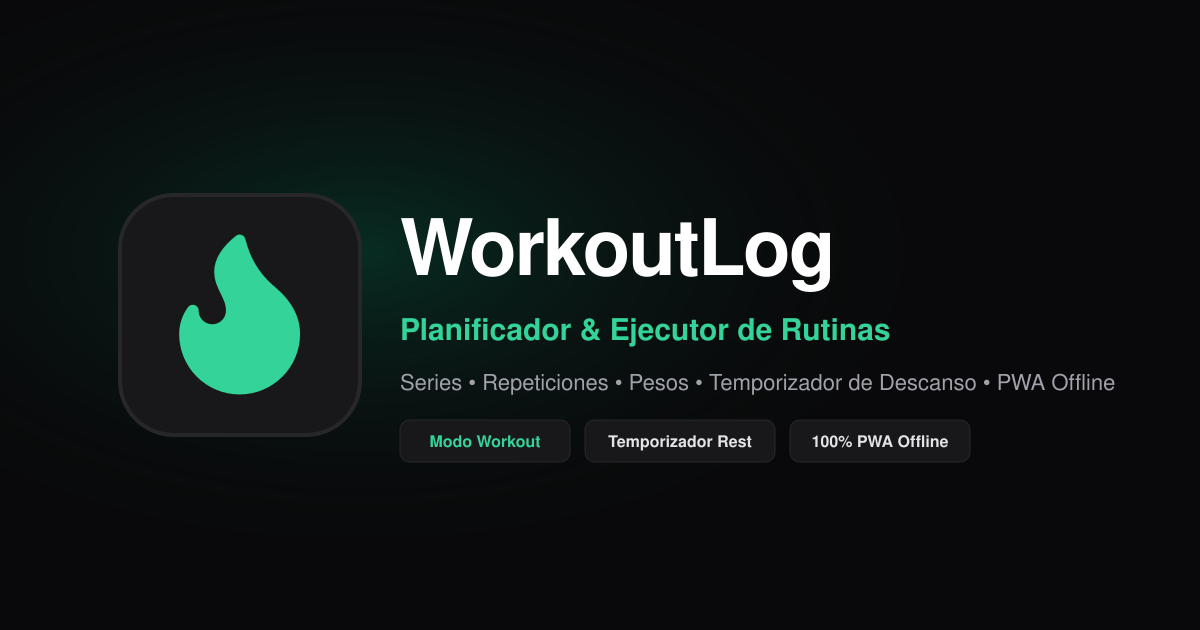
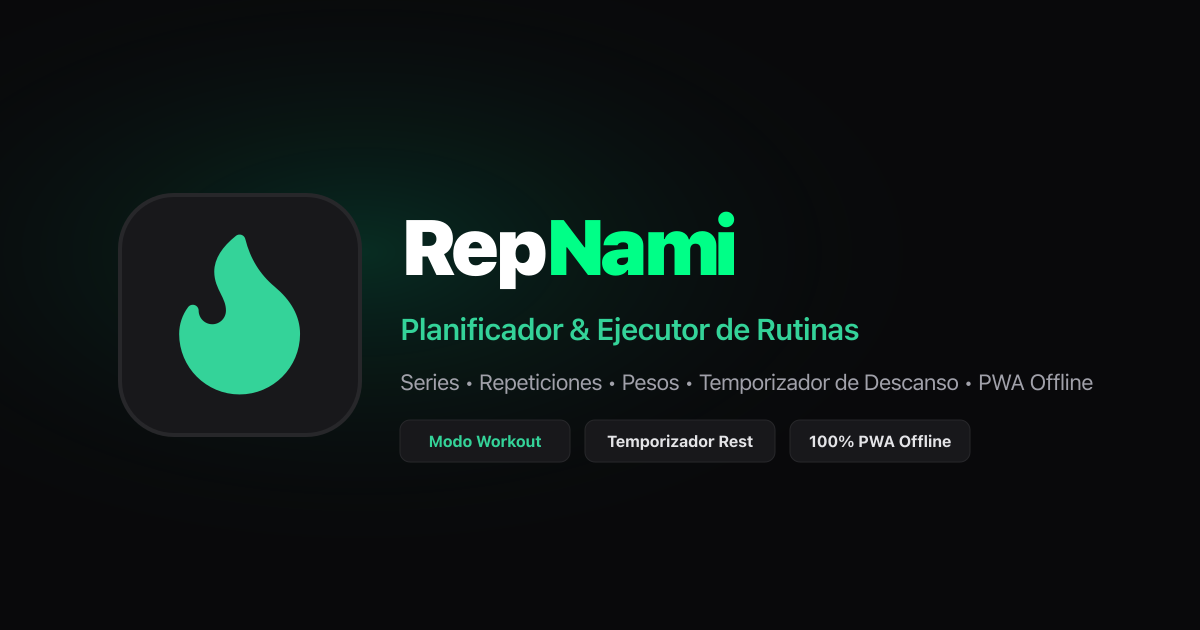
feat(ui): rename app to RepNami

diff --git a/index.html b/index.html
@@ -5,8 +5,8 @@
     <meta name="viewport" content="width=device-width, initial-scale=1.0, maximum-scale=1.0, user-scalable=no" />
     
     <!-- Primary Title & Meta Description -->
-    <title>WorkoutLog – Planificador y Ejecutor de Rutinas</title>
-    <meta name="description" content="WorkoutLog: planifica y ejecuta tus rutinas de entrenamiento de fuerza y gimnasio. Control de series, repeticiones, pesos, cronómetro de descansos y catálogo de ejercicios." />
+    <title>RepNami – Planificador y Ejecutor de Rutinas</title>
+    <meta name="description" content="RepNami: planifica y ejecuta tus rutinas de entrenamiento de fuerza y gimnasio. Control de series, repeticiones, pesos, cronómetro de descansos y catálogo de ejercicios." />
     <meta name="keywords" content="workout log, planificador de rutinas, gimnasio, series y repeticiones, cronómetro descanso gimnasio, entrenamiento de fuerza, fitness app, pwa" />
     <meta name="author" content="Alberto" />
     <meta name="robots" content="index, follow" />
@@ -23,8 +23,8 @@
     <meta name="mobile-web-app-capable" content="yes" />
     <meta name="apple-mobile-web-app-capable" content="yes" />
     <meta name="apple-mobile-web-app-status-bar-style" content="default" />
-    <meta name="apple-mobile-web-app-title" content="WorkoutLog" />
-    <meta name="application-name" content="WorkoutLog" />
+    <meta name="apple-mobile-web-app-title" content="RepNami" />
+    <meta name="application-name" content="RepNami" />
     <meta name="format-detection" content="telephone=no" />
 
     <!-- Google Fonts: Semi-Brutalist Athletic Typography -->
@@ -34,33 +34,33 @@
 
     <!-- OpenGraph / Facebook / WhatsApp / LinkedIn -->
     <meta property="og:type" content="website" />
-    <meta property="og:site_name" content="WorkoutLog" />
+    <meta property="og:site_name" content="RepNami" />
     <meta property="og:url" content="https://dawalberto.github.io/workoutlog/" />
-    <meta property="og:title" content="WorkoutLog – Planificador y Ejecutor de Rutinas" />
+    <meta property="og:title" content="RepNami – Planificador y Ejecutor de Rutinas" />
     <meta property="og:description" content="Planifica y ejecuta tus rutinas de entrenamiento de fuerza y gimnasio. Gestión de series, pesos, descansos automáticos con cronómetro y catálogo de ejercicios." />
     <meta property="og:image" content="https://dawalberto.github.io/workoutlog/og-image.png" />
     <meta property="og:image:secure_url" content="https://dawalberto.github.io/workoutlog/og-image.png" />
     <meta property="og:image:type" content="image/png" />
     <meta property="og:image:width" content="1200" />
     <meta property="og:image:height" content="630" />
-    <meta property="og:image:alt" content="WorkoutLog - Planificador de Rutinas de Entrenamiento" />
+    <meta property="og:image:alt" content="RepNami - Planificador de Rutinas de Entrenamiento" />
     <meta property="og:locale" content="es_ES" />
 
     <!-- Twitter / X Cards -->
     <meta name="twitter:card" content="summary_large_image" />
     <meta name="twitter:url" content="https://dawalberto.github.io/workoutlog/" />
-    <meta name="twitter:title" content="WorkoutLog – Planificador y Ejecutor de Rutinas" />
+    <meta name="twitter:title" content="RepNami – Planificador y Ejecutor de Rutinas" />
     <meta name="twitter:description" content="Planifica y ejecuta tus rutinas de entrenamiento de fuerza y gimnasio. Gestión de series, pesos, descansos automáticos con cronómetro y catálogo de ejercicios." />
     <meta name="twitter:image" content="https://dawalberto.github.io/workoutlog/og-image.png" />
-    <meta name="twitter:image:alt" content="WorkoutLog - Planificador de Rutinas de Entrenamiento" />
+    <meta name="twitter:image:alt" content="RepNami - Planificador de Rutinas de Entrenamiento" />
 
     <!-- Schema.org JSON-LD Structured Data -->
     <script type="application/ld+json">
     {
       "@context": "https://schema.org",
       "@type": "WebApplication",
-      "name": "WorkoutLog",
-      "alternateName": "WorkoutLog App",
+      "name": "RepNami",
+      "alternateName": "RepNami App",
       "url": "https://dawalberto.github.io/workoutlog/",
       "applicationCategory": "HealthAndFitnessApplication",
       "operatingSystem": "All",

diff --git a/src/components/AppHeader.tsx b/src/components/AppHeader.tsx
@@ -30,15 +30,15 @@ export const AppHeader: React.FC = () => {
             type="button"
             onClick={() => onSelectTab(AppTab.ROUTINES)}
             className="flex items-center gap-2.5 text-left group focus:outline-none"
-            title="WorkoutLog - Rutinas"
-            aria-label="WorkoutLog"
+            title="RepNami - Rutinas"
+            aria-label="RepNami"
           >
             <div className="w-9 h-9 sm:w-10 sm:h-10 rounded-2xl bg-zinc-900 border border-white/10 flex items-center justify-center shadow-[0_0_15px_rgba(0,255,135,0.15)] group-hover:border-[#00FF87]/40 group-hover:shadow-[0_0_20px_rgba(0,255,135,0.3)] transition-all duration-200 active:scale-95">
               <Flame className="w-5 h-5 text-[#00FF87] fill-current drop-shadow-[0_0_8px_rgba(0,255,135,0.6)]" />
             </div>
             <div>
               <span className="text-sm sm:text-base font-black tracking-tight text-white block leading-tight">
-                WORKOUT<span className="text-[#00FF87]">LOG</span>
+                REP<span className="text-[#00FF87]">NAMI</span>
               </span>
               <span className="text-[10px] font-semibold text-zinc-400 block tracking-wider uppercase">
                 Performance

diff --git a/src/components/PWAInstallBanner.tsx b/src/components/PWAInstallBanner.tsx
@@ -56,7 +56,7 @@ export const PWAInstallBanner: React.FC = () => {
               <div className="min-w-0">
                 <div className="flex items-center gap-1.5">
                   <h4 className="text-xs font-bold text-white tracking-tight leading-tight">
-                    Instalar WorkoutLog
+                    Instalar RepNami
                   </h4>
                   <span className="px-1.5 py-0.5 rounded-full text-[9px] font-extrabold uppercase bg-emerald-500/20 text-emerald-400">
                     App
@@ -111,7 +111,7 @@ export const PWAInstallBanner: React.FC = () => {
                   <Flame className="w-4 h-4 text-emerald-400 fill-current" />
                 </span>
                 <div>
-                  <h3 className="text-sm font-bold text-zinc-900 leading-tight">Instalar WorkoutLog</h3>
+                  <h3 className="text-sm font-bold text-zinc-900 leading-tight">Instalar RepNami</h3>
                   <span className="text-[11px] text-zinc-500">
                     {isIOS ? 'En iPhone / iPad (Safari)' : 'En Android / Navegador'}
                   </span>

diff --git a/tests/app-shell.test.tsx b/tests/app-shell.test.tsx
@@ -169,10 +169,10 @@ describe('App shell composition', () => {
 
   it('shows the loading screen only while signing out without an open confirmation', () => {
     seedAppStore({ isSigningOut: true, isSignOutConfirmOpen: false });
-    expect(renderApp()).toContain('Iniciando WorkoutLog...');
+    expect(renderApp()).toContain('Iniciando RepNami...');
 
     seedAppStore({ isSignOutConfirmOpen: true });
-    expect(renderApp()).not.toContain('Iniciando WorkoutLog...');
+    expect(renderApp()).not.toContain('Iniciando RepNami...');
     expect(renderApp()).toContain('¿Cerrar sesión?');
   });
 
@@ -302,7 +302,7 @@ describe('App shell composition', () => {
 
     const markup = renderApp();
     expect(markup).not.toContain('Cargando datos...');
-    expect(markup).not.toContain('Iniciando WorkoutLog...');
+    expect(markup).not.toContain('Iniciando RepNami...');
     expect(markup).toContain('id="routine-list-page"');
   });
 

diff --git a/scripts/generate-assets.js b/scripts/generate-assets.js
@@ -46,7 +46,7 @@ const ogImageSvg = `<svg xmlns="http://www.w3.org/2000/svg" width="1200" height=
   </g>
 
   <!-- Typography -->
-  <text x="400" y="275" font-family="system-ui, -apple-system, sans-serif" font-weight="900" font-size="78" fill="#ffffff" letter-spacing="-2">WorkoutLog</text>
+  <text x="400" y="275" font-family="system-ui, -apple-system, sans-serif" font-weight="900" font-size="78" fill="#ffffff" letter-spacing="-2">Rep<tspan fill="#00FF87">Nami</tspan></text>
   <text x="400" y="340" font-family="system-ui, -apple-system, sans-serif" font-weight="600" font-size="30" fill="#34d399">Planificador &amp; Ejecutor de Rutinas</text>
   <text x="400" y="390" font-family="system-ui, -apple-system, sans-serif" font-weight="400" font-size="22" fill="#a1a1aa">Series • Repeticiones • Pesos • Temporizador de Descanso • PWA Offline</text>
 

diff --git a/src/components/PWAInstallButton.tsx b/src/components/PWAInstallButton.tsx
@@ -19,7 +19,7 @@ export const PWAInstallButton: React.FC = () => {
         type="button"
         onClick={install}
         className="hidden sm:inline-flex items-center gap-1.5 px-3 py-1.5 min-h-[36px] text-xs font-extrabold rounded-xl bg-[#00FF87] hover:bg-[#00e57a] text-black shadow-[0_0_12px_rgba(0,255,135,0.3)] transition-all active:scale-95 shrink-0"
-        title="Instalar WorkoutLog como aplicación"
+        title="Instalar RepNami como aplicación"
       >
         <Download className="w-3.5 h-3.5 stroke-[2.5]" />
         <span>Instalar App</span>

diff --git a/vite.config.ts b/vite.config.ts
@@ -22,8 +22,8 @@ export default defineConfig(() => {
         ],
         manifest: {
           id: '/workoutlog/',
-          name: 'WorkoutLog – Planificador de Rutinas',
-          short_name: 'WorkoutLog',
+          name: 'RepNami – Planificador de Rutinas',
+          short_name: 'RepNami',
           description: 'Planificador y ejecutor de rutinas de entrenamiento minimalista con cálculo de tiempos, cronómetro de descansos y catálogo de ejercicios.',
           theme_color: '#09090b',
           background_color: '#09090b',

diff --git a/src/components/SidebarMenu.tsx b/src/components/SidebarMenu.tsx
@@ -55,7 +55,7 @@ export const SidebarMenu: React.FC = () => {
               </span>
               <div>
                 <span className="text-base font-black tracking-tight text-white block leading-tight">
-                  WORKOUT<span className="text-[#00FF87]">LOG</span>
+                  REP<span className="text-[#00FF87]">NAMI</span>
                 </span>
                 <span className="text-[10px] text-zinc-400 font-semibold tracking-wider uppercase">
                   Performance Gym

diff --git a/src/components/data-backup/BackupImportPanel.tsx b/src/components/data-backup/BackupImportPanel.tsx
@@ -46,7 +46,7 @@ export const BackupImportPanel: React.FC<BackupImportPanelProps> = ({
           Selecciona o arrastra tu archivo JSON
         </h4>
         <p className="text-xs text-zinc-400 mt-1 max-w-xs mx-auto">
-          Acepta copias de WorkoutLog con ejercicios, rutinas, RMs, historial o diario.
+          Acepta copias de RepNami y WorkoutLog con ejercicios, rutinas, RMs, historial o diario.
         </p>
         <button
           type="button"

diff --git a/src/components/RestPushPrompt.tsx b/src/components/RestPushPrompt.tsx
@@ -17,7 +17,7 @@ export const RestPushPrompt: React.FC = () => {
   if (restPush.permission === 'denied') {
     return (
       <p className="px-2 text-center text-xs leading-5 text-zinc-300">
-        Activa las notificaciones de WorkoutLog en los ajustes del móvil
+        Activa las notificaciones de RepNami en los ajustes del móvil
       </p>
     );
   }

diff --git a/src/components/AppLoadingScreen.tsx b/src/components/AppLoadingScreen.tsx
@@ -11,7 +11,7 @@ interface AppLoadingScreenProps {
 }
 
 export const AppLoadingScreen: React.FC<AppLoadingScreenProps> = ({
-  message = 'Iniciando WorkoutLog...',
+  message = 'Iniciando RepNami...',
 }) => {
   return (
     <div className="min-h-screen bg-[#0D0D0D] flex items-center justify-center p-4">

diff --git a/odd/tasks/repnami-brand.md b/odd/tasks/repnami-brand.md
@@ -1,0 +1,18 @@
+# RepNami brand
+
+## Objective
+Rename the user-facing app to RepNami, highlighting Nami in neon green.
+
+## Scope and constraints
+Update visible branding, install metadata and the social preview. Preserve existing URLs, PWA identity, database names and backup compatibility.
+
+## Tasks and acceptance criteria
+- [x] BRAND-1: Update UI, metadata and social preview to RepNami; keep Nami green in wordmarks.
+- [x] BRAND-2: Verify existing tests, typecheck and production build.
+
+## Progress
+- Updated visible branding and social preview while preserving compatibility identifiers.
+- Verified with pnpm test, pnpm lint and pnpm build.
+
+## Next step
+Ready for review.
